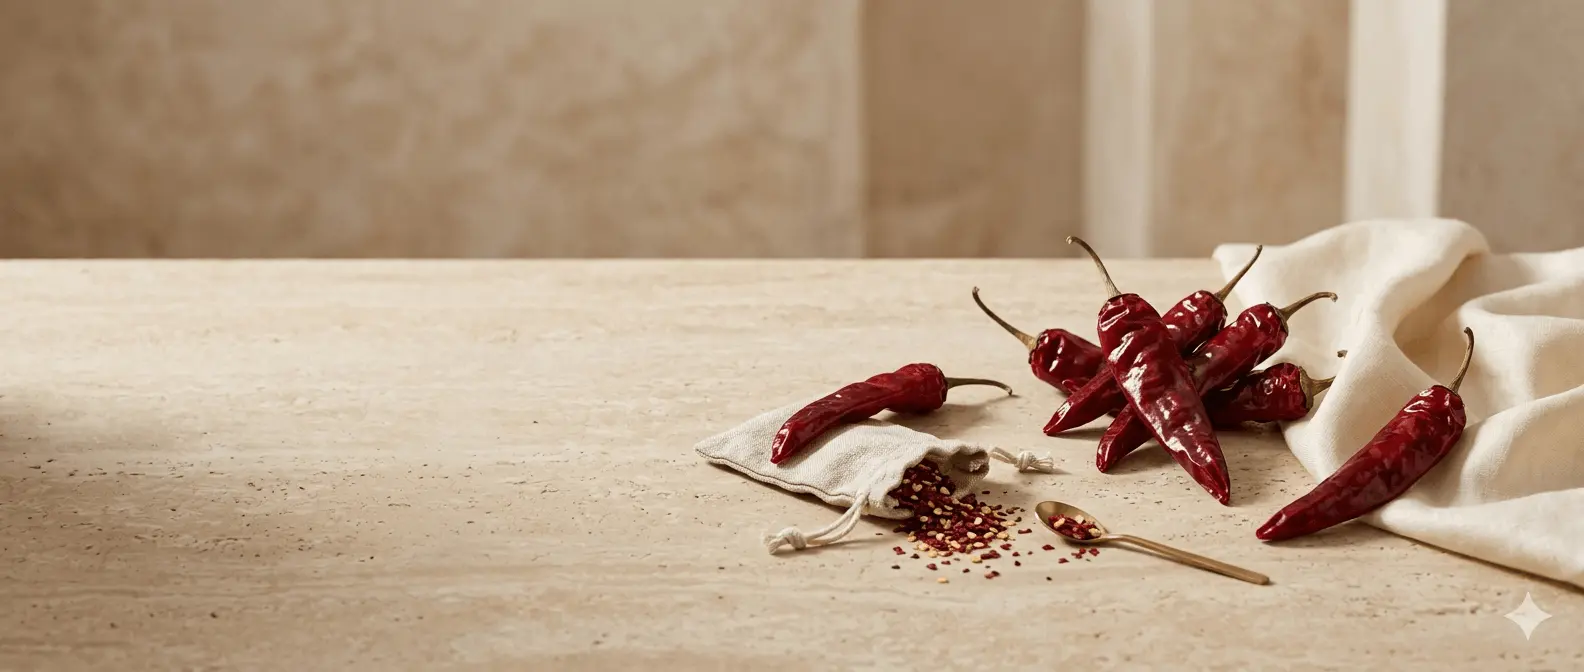
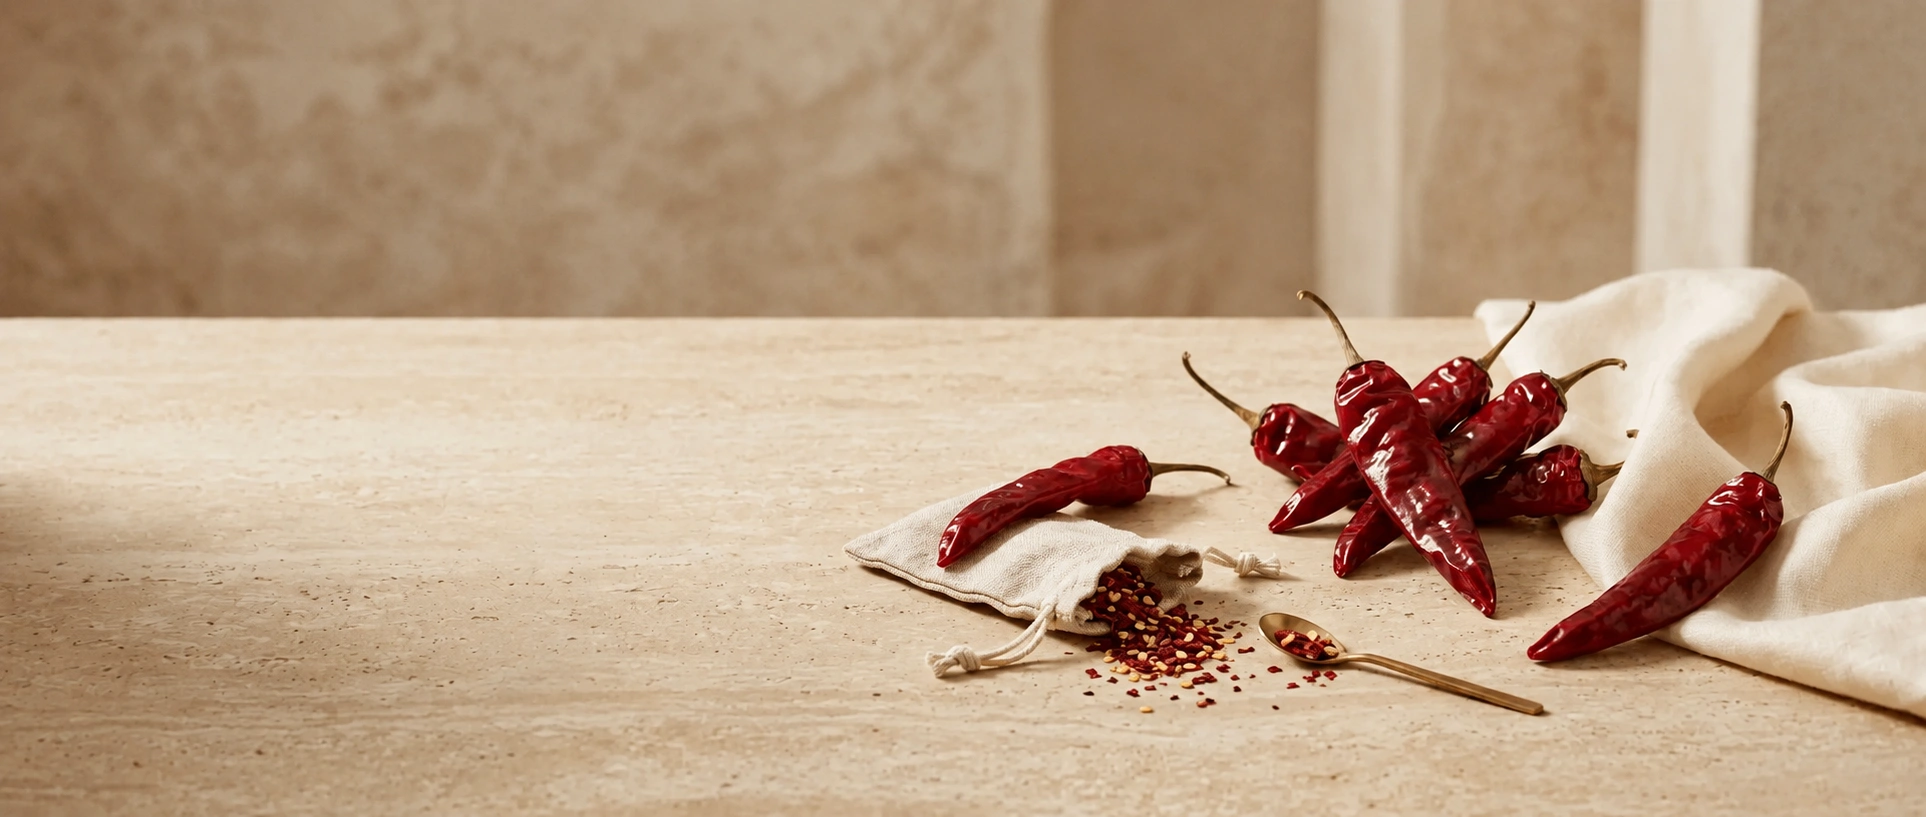
fp

diff --git a/src/styles/FeaturedProducts.css b/src/styles/FeaturedProducts.css
@@ -120,23 +120,15 @@
 }
 
 .fp-card{
-
     display:grid;
-
     grid-template-columns:520px 1fr;
-
+    align-items:start;   /* 👈 add this line */
     gap:55px;
-
     background:#fff;
-
     border-radius:30px;
-
     overflow:hidden;
-
     box-shadow:0 12px 40px rgba(0,0,0,.08);
-
     transition:.4s;
-
 }
 
 .fp-card:hover{
@@ -172,7 +164,7 @@
 
     position:relative;
 
-    height:720px;
+    height:100%;
 
     overflow:hidden;
 
@@ -295,7 +287,7 @@
 
     flex-direction:column;
 
-    justify-content:left;
+    justify-content:flex-start;
 
 }
 

diff --git a/src/components/OurCommitmentH.jsx b/src/components/OurCommitmentH.jsx
@@ -54,12 +54,13 @@ function Commitment() {
   const farmToPack = useCountUp(72, 1500, inView);
 
   return (
-    <section className="commitment" data-aos="fade-right" ref={sectionRef}>
+    <section className="commitment"  ref={sectionRef}>
       <div className="container">
 
       <div className="overlay"></div>
 
-      <div className="commitment-content">
+      <div className="commitment-content" data-aos="fade-right">
+        
 
         <p className="commitment-label">
           OUR COMMITMENT

diff --git a/src/components/Hero.jsx b/src/components/Hero.jsx
@@ -3,9 +3,9 @@ import { Link } from "react-router-dom";
 
 function Hero() {
   return (
-    <section className="home-hero" data-aos="fade-in">
+    <section className="home-hero">
       <div className="container">
-      <div className="home-hero-content">
+      <div className="home-hero-content" data-aos="fade-in">
         {/* Badge */}
         <div className="home-hero-badge">
           <span className="home-badge-dot"></span>

diff --git a/src/components/ProcessSectionH.jsx b/src/components/ProcessSectionH.jsx
@@ -139,8 +139,8 @@ export default function ProcessSection() {
   };
 
   return (
-    <section className="process-section" data-aos="fade-right">
-      <div className="container">
+    <section className="process-section">
+      <div className="container" data-aos="fade-right">
         <div className="process-container">
           <div className="process-heading">
             <span className="process-label">OUR PROCESS</span>

diff --git a/src/components/ServicesSection.jsx b/src/components/ServicesSection.jsx
@@ -42,9 +42,9 @@ const services = [
 
 export default function ServicesSection() {
   return (
-    <section className="services-section" data-aos="fade-right">
+    <section className="services-section" >
       
-      <div className="services-container">
+      <div className="services-container" data-aos="fade-right">
 
         <div className="services-grid">
           {services.map((service, index) => (

diff --git a/src/components/Whoweare.jsx b/src/components/Whoweare.jsx
@@ -85,7 +85,7 @@ function WhoAreWe() {
             className="read-more"
             data-aos="fade-up"
             data-aos-once="true"
-            data-aos-delay="900"
+            data-aos-delay="500"
             data-aos-duration="700"
           >
             Read More →
